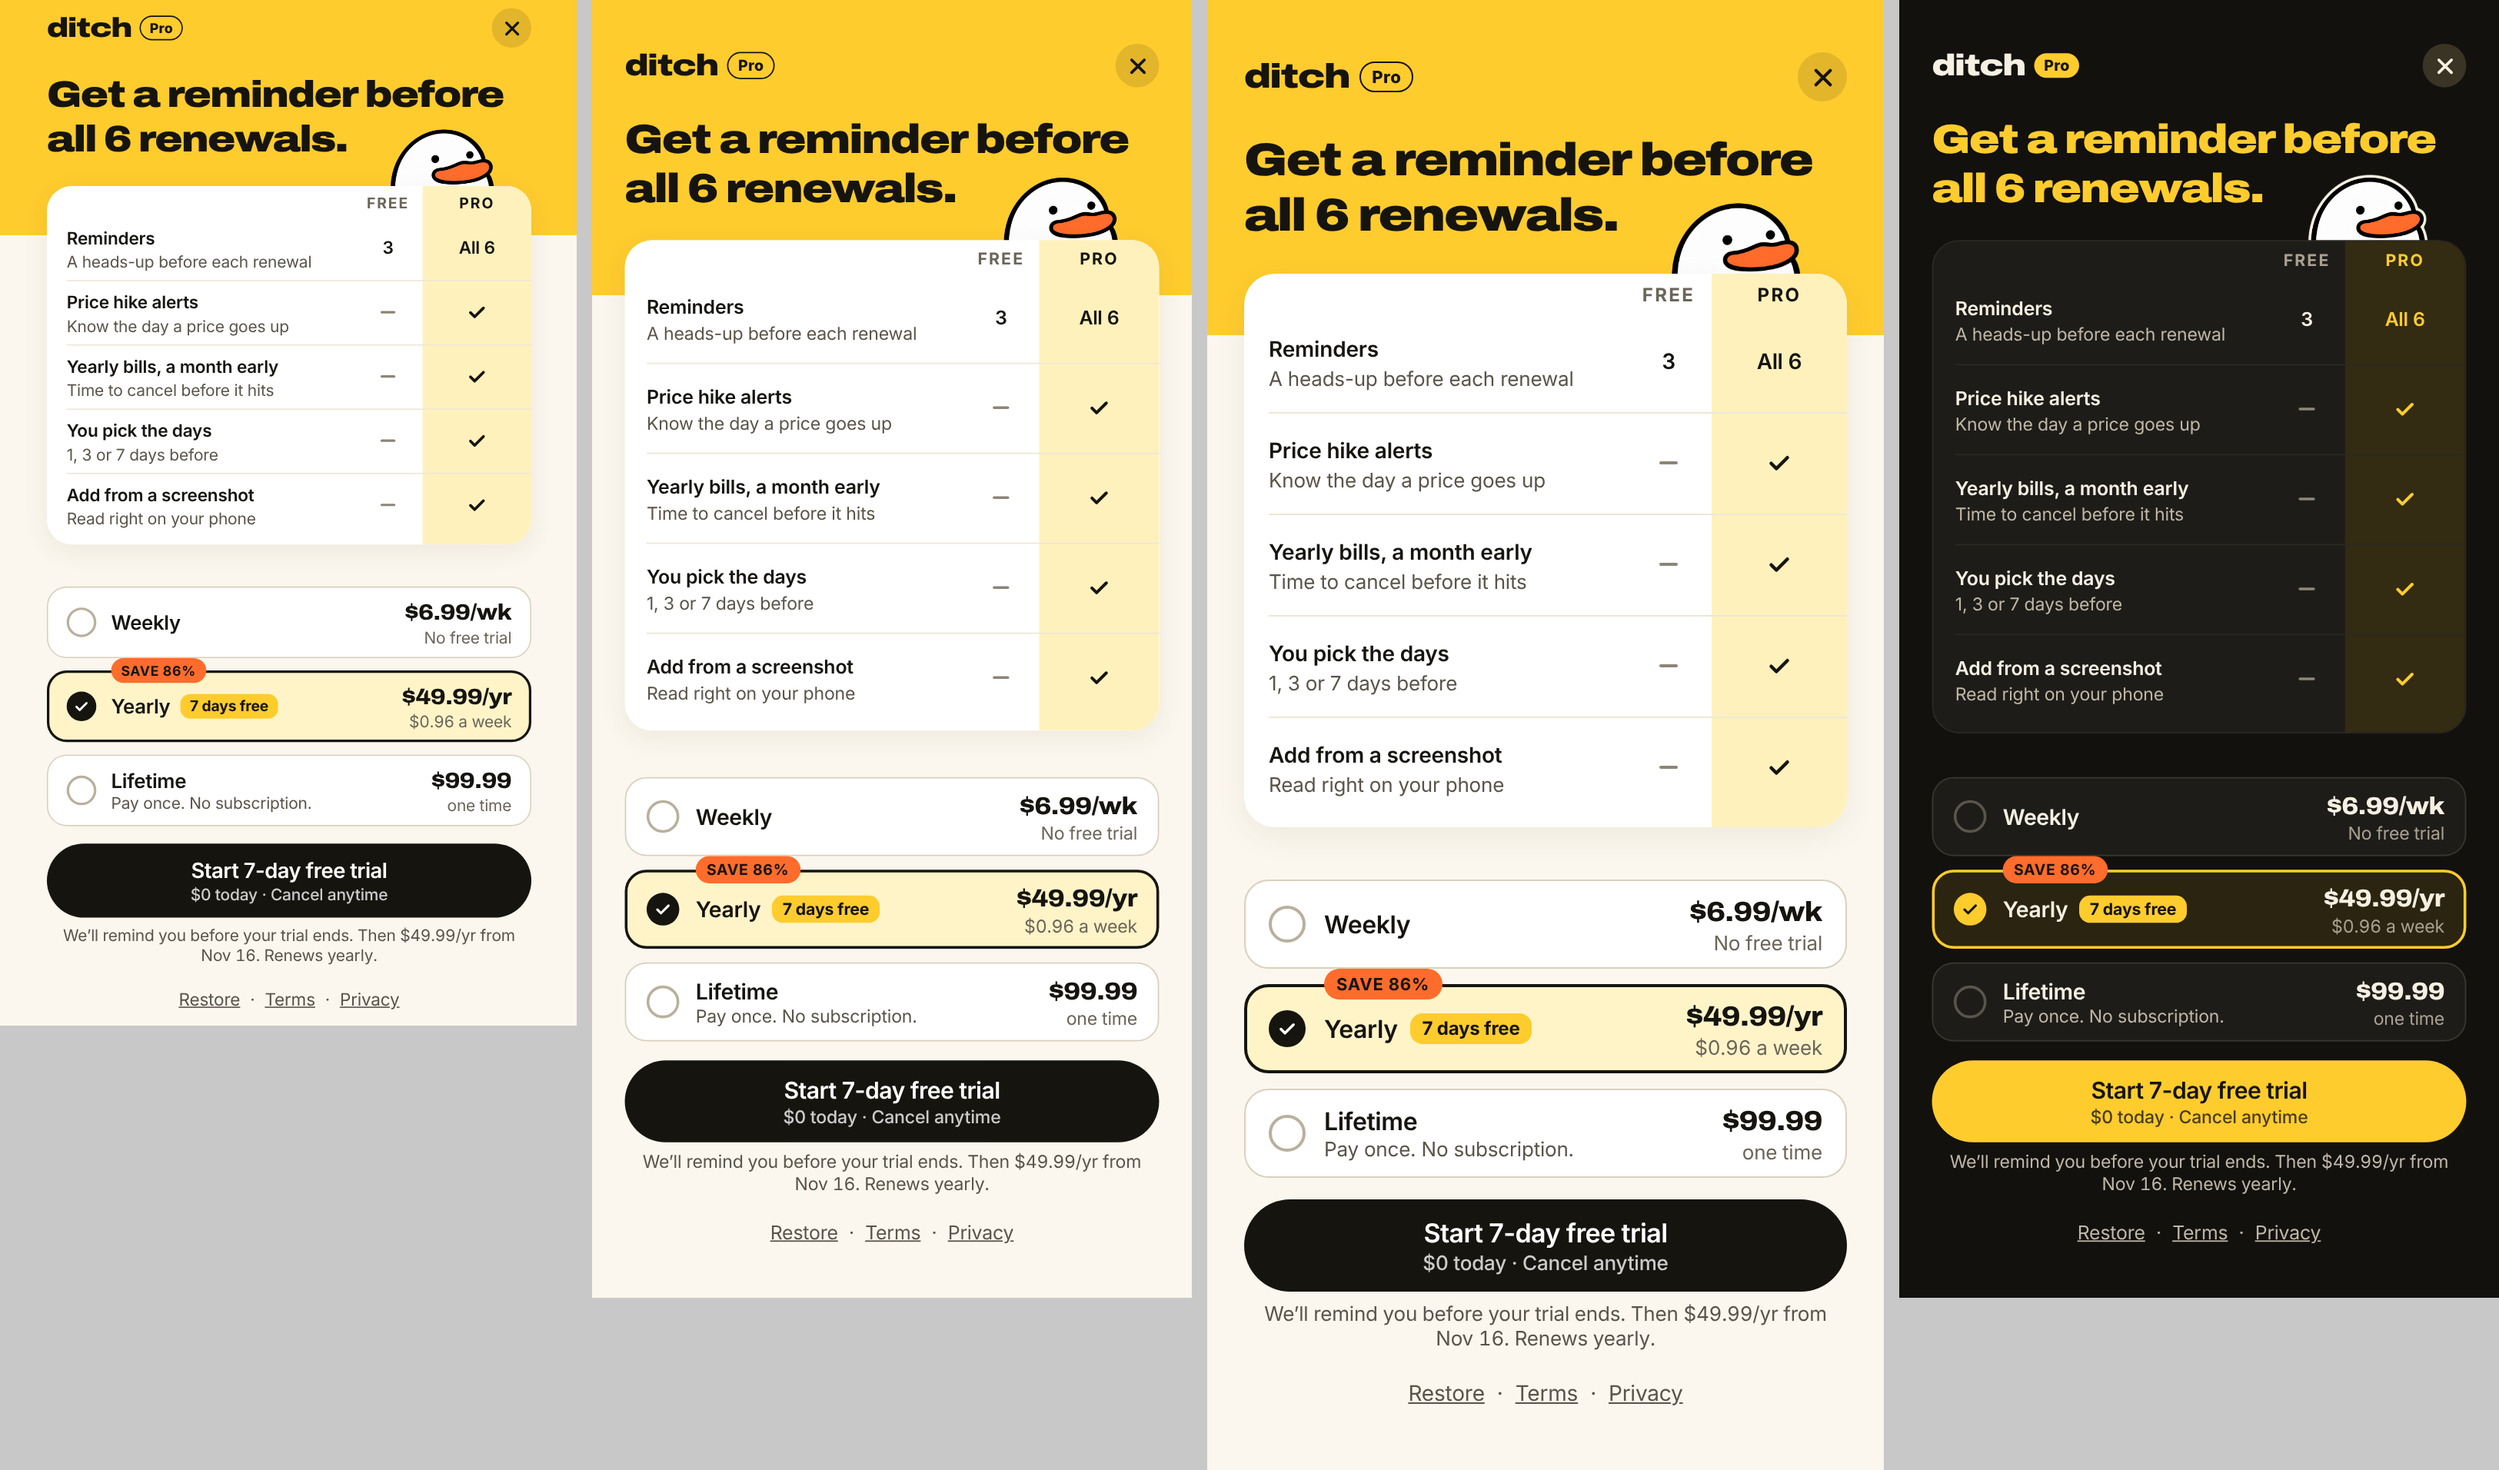
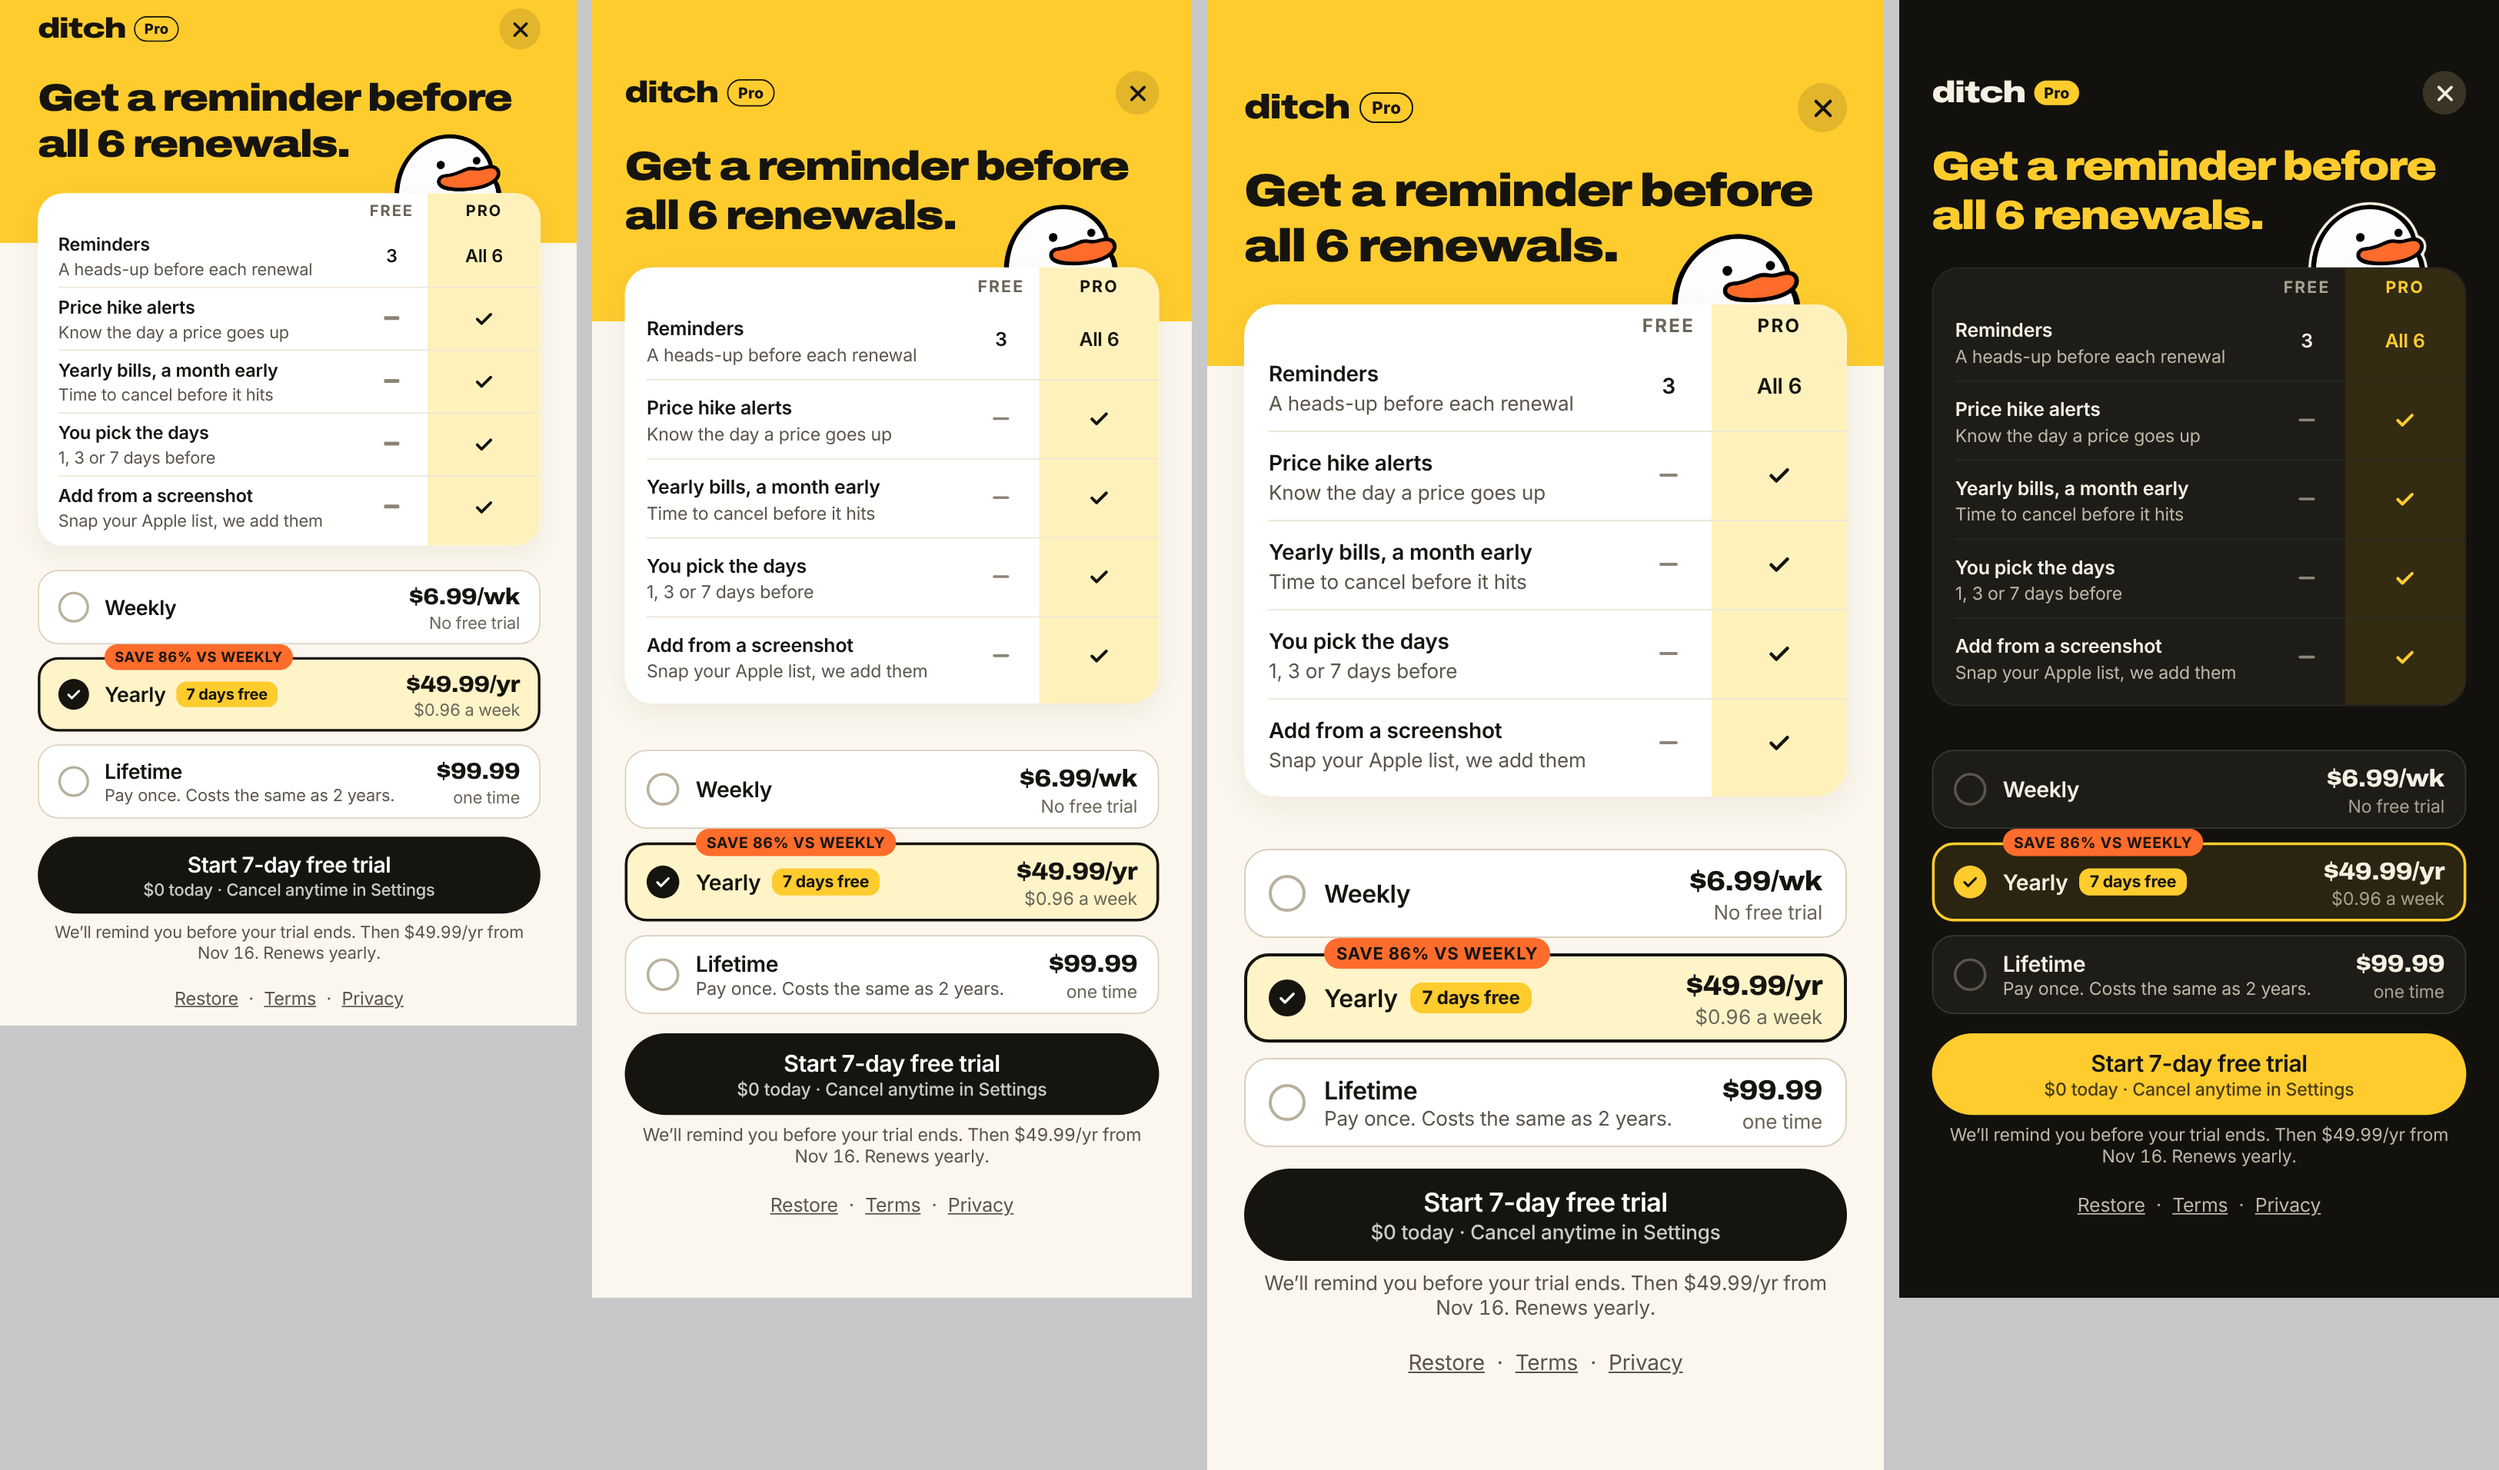
Paywall v22 polish from blind review: tighter rows, SAVE 86% VS WEEKLY, cancel in Settings, clearer screenshot row, Lifetime anchor (same as 2 years)
Claude-Session: https://claude.ai/code/session_01Q8GFjWCZXwnj2nAcxjTkxh

diff --git a/src/app/paywall.tsx b/src/app/paywall.tsx
@@ -6,7 +6,7 @@
 // Order (owner, Nov 18): Weekly / Yearly / Lifetime, cheapest first, so Yearly sits in the middle,
 // pre-selected (the "compromise" pick, right under the weekly price it beats by 86%).
 // Plans (DECISIONS #66, owner Nov 18): Yearly with 7 days free (pre-selected,
-// "$0.97 a week", saving vs Weekly), Lifetime ("Pay once. No subscription.")
+// "$0.96 a week", saving vs Weekly), Lifetime ("Pay once. Costs the same as 2 years.")
 // for people tired of subscriptions, Weekly with no trial. No monthly.
 // Layout (owner, Nov 18: "always fits, any screen"): like AllTrails, Smart Receipts, Quizlet and
 // Trade AI on Mobbin/AppKittie, the plans, button, price line and links are pinned to the bottom
@@ -67,7 +67,7 @@ function rowsFor(n: number): Row[] {
     { label: 'You pick the days', sub: '1, 3 or 7 days before', free: 'no', pro: 'yes' },
     ...(WIDGET_READY ? [{ label: `Lock${NB}Screen widget`, free: 'no', pro: 'yes' }] : []),
     // The first import (onboarding) is free, so "anytime" keeps this row true (DECISIONS #34).
-    ...(showImport() ? [{ label: 'Add from a screenshot', sub: 'Read right on your phone', free: 'no', pro: 'yes' }] : []),
+    ...(showImport() ? [{ label: 'Add from a screenshot', sub: 'Snap your Apple list, we add them', free: 'no', pro: 'yes' }] : []),
   ];
 }
 
@@ -86,8 +86,8 @@ const EDGE_W = 24;
 /** Everything on the canvas except the table rows (hero, table header, plans, button, price line, links). */
 const CANVAS_BASE = 570;
 /** Table row height range: 52pt (SE) to 66pt (fewer rows get more air). Each row has a label and a line under it. */
-const ROW_MIN = 52;
-const ROW_MAX = 66;
+const ROW_MIN = 46;
+const ROW_MAX = 58;
 
 const CELL_TEXT = { fontFamily: F.semi, fontSize: 14, lineHeight: 20 } as const;
 const LABEL_TEXT = { fontFamily: F.medium, fontSize: 14, letterSpacing: -0.1 } as const;
@@ -249,7 +249,7 @@ export default function Paywall() {
   const cta = { yearly: `Start ${yearly.trialDays}-day free trial`, weekly: `Subscribe for ${weekly.priceString} a week`, lifetime: `Pay ${lifetime.priceString} once` }[planId];
   const perWeek = perWeekFromYearly({ amountMinor: yearly.priceMinor, currency: yearly.currency });
   // A true comparison with the Weekly plan we sell: $6.99 × 52 = $363.48 vs $49.99 (rounded down).
-  const badge = yearlyBadgeVsWeekly({ amountMinor: weekly.priceMinor, currency: weekly.currency }, { amountMinor: yearly.priceMinor, currency: yearly.currency }).toUpperCase();
+  const badge = yearlyBadgeVsWeekly({ amountMinor: weekly.priceMinor, currency: weekly.currency }, { amountMinor: yearly.priceMinor, currency: yearly.currency }).toUpperCase().replace(/^SAVE (\d+%)$/, 'SAVE $1 VS WEEKLY');
 
   const what = many ? `all ${n}${NB}renewals.` : `every${NB}renewal.`;
   const head = `Get a reminder before\n${what}`;
@@ -341,19 +341,19 @@ export default function Paywall() {
             />
             <PlanCard
               title="Lifetime"
-              note="Pay once. No subscription."
+              note="Pay once. Costs the same as 2 years."
               price={lifetime.priceString}
               sub="one time"
               selected={planId === 'lifetime'}
               onPress={() => select('lifetime')}
               height={58}
               tint={dark ? '#2A2410' : '#FFF4C8'}
-              a11y={`Lifetime, ${lifetime.priceString} one time. Pay once, no subscription.`}
+              a11y={`Lifetime, ${lifetime.priceString} one time. Pay once, costs the same as 2 years.`}
             />
           </View>
 
           <View style={{ height: 14 }} />
-          <Button label={cta} sub={planId === 'yearly' ? `${formatWholeMoney(0, yearly.currency)} today · Cancel anytime` : undefined} onPress={buy} height={60} />
+          <Button label={cta} sub={planId === 'yearly' ? `${formatWholeMoney(0, yearly.currency)} today · Cancel anytime in Settings` : undefined} onPress={buy} height={60} />
           {/* A fixed slot, so the button never moves when the plan changes. Price and the real start date by the
             button (App Review); no reminder text (owner, Nov 10). */}
           <View style={{ height: 44, alignItems: 'center', justifyContent: 'center', paddingHorizontal: planId === 'yearly' ? 0 : 4 }}>

diff --git a/design/model/model.html b/design/model/model.html
@@ -47,7 +47,7 @@ table{border-collapse:collapse;margin-top:8px;font-size:16px}td,th{padding:12px 
  <div class="box"><b>Main paywall: 3 plans</b>
   <table>
    <tr><th>Plan</th><th>Price</th><th>Trial</th></tr>
-   <tr><td>Yearly <span class="tag">Best value</span><br><small>pre-selected</small></td><td>$49.99<br><small>= $0.97 a week</small></td><td>7 days free</td></tr>
+   <tr><td>Yearly <span class="tag">Best value</span><br><small>pre-selected</small></td><td>$49.99<br><small>= $0.96 a week</small></td><td>7 days free</td></tr>
    <tr><td>Lifetime<br><small>"Pay once. No subscription."</small></td><td>$99.99</td><td>none</td></tr>
    <tr><td>Weekly</td><td>$6.99</td><td>none</td></tr>
   </table>

diff --git a/docs/MANUAL-TESTS.md b/docs/MANUAL-TESTS.md
@@ -88,8 +88,8 @@ Delete Ditch's data first so the onboarding shows again: Settings → Your data 
 
 ## 1o. Paywall v22: the table, reworded (Nov 18)
 - [ ] Headline "Get a reminder before all N renewals." with the duck; a Free vs Pro table with a soft yellow Pro column. Each row has a bold name and one plain line: Reminders (3 vs All N), Price hike alerts, Yearly bills a month early, You pick the days, Add from a screenshot.
-- [ ] Weekly / Yearly / Lifetime. Yearly is picked, filled soft yellow, with an orange "SAVE 86%" and "$0.96 a week".
-- [ ] The button reads "Start 7-day free trial" with "$0 today · Cancel anytime" inside it. Under it: "We'll remind you before your trial ends. Then $49.99/yr from (date a week away). Renews yearly."
+- [ ] Weekly / Yearly / Lifetime. Yearly is picked, filled soft yellow, with an orange "SAVE 86% VS WEEKLY" and "$0.96 a week".
+- [ ] The button reads "Start 7-day free trial" with "$0 today · Cancel anytime in Settings" inside it. Under it: "We'll remind you before your trial ends. Then $49.99/yr from (date a week away). Renews yearly."
 - [ ] Tap Weekly / Lifetime: the button and the line under it change; the button never moves.
 - [ ] Same picture on every iPhone (scaled), dark mode readable.
 
